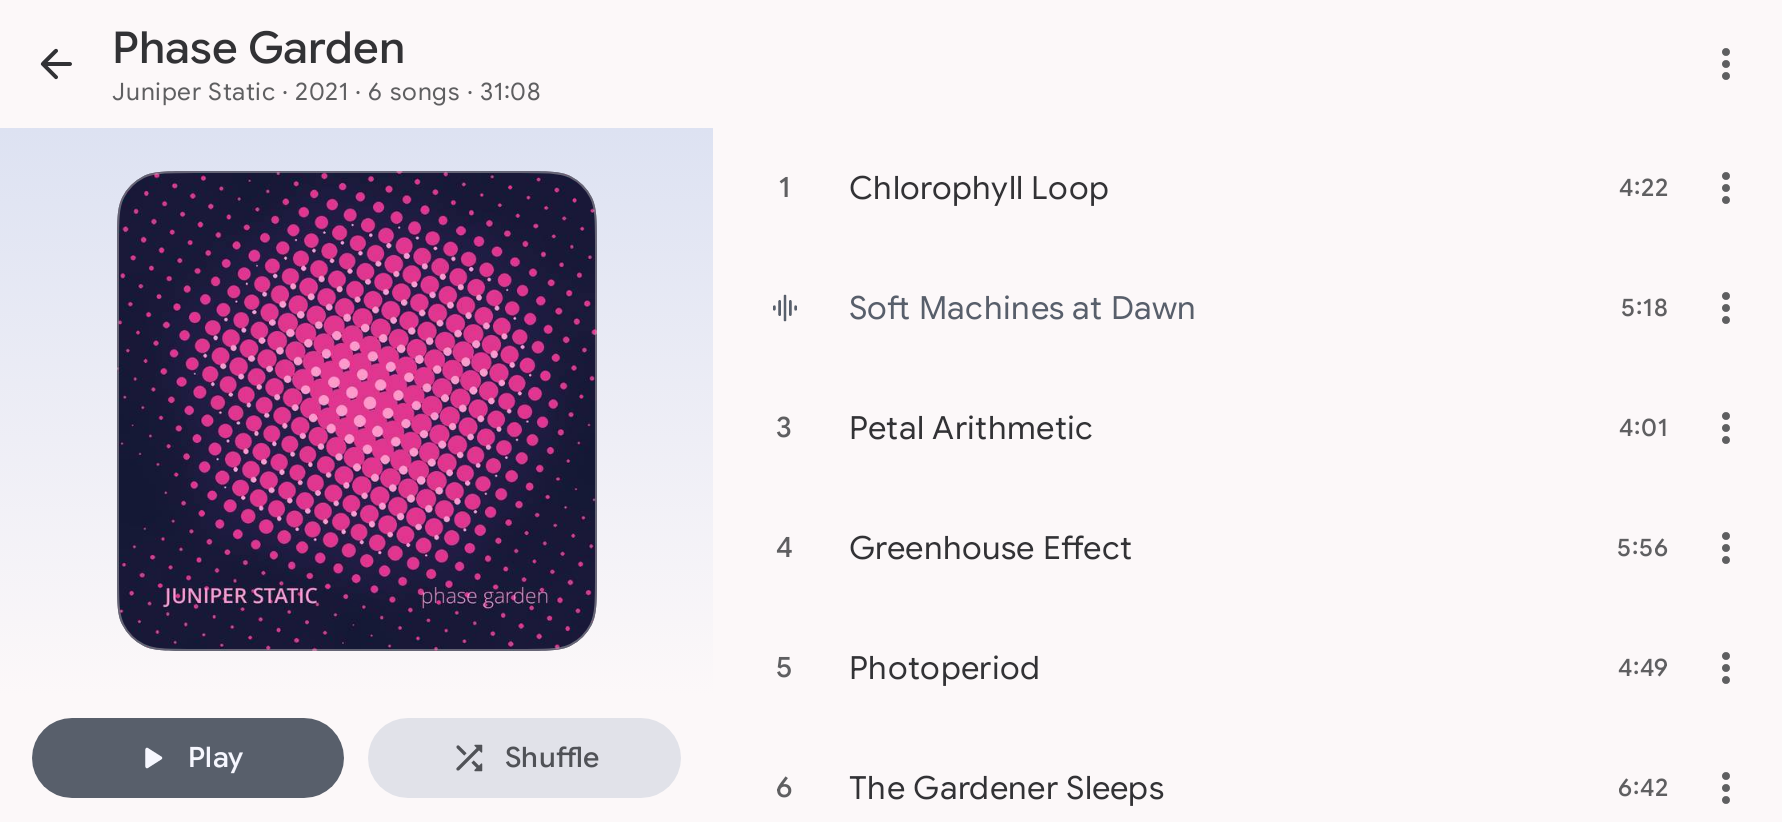
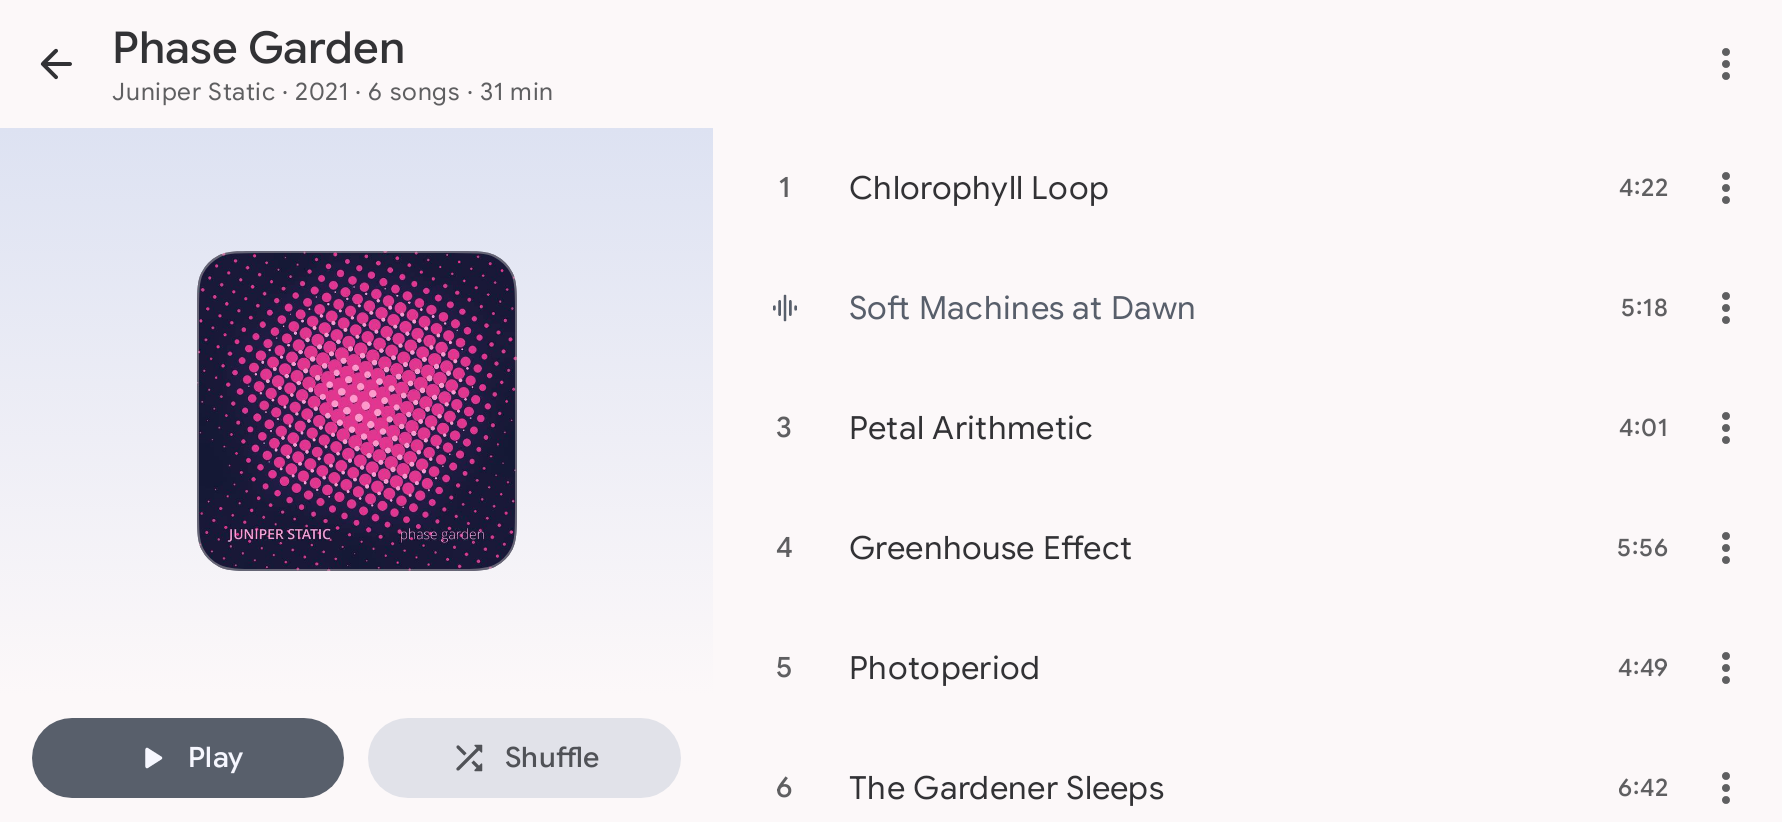
feat(app): compact album header and show runtime in hours and minutes (#1034)

Changed region(s): [[0.0617, 0.1825, 0.3395, 0.7908], [0.2778, 0.0912, 0.3086, 0.1217]]

diff --git a/android/app/src/main/java/com/simplecityapps/shuttle/ui/screens/library/AlbumDetailScreen.kt b/android/app/src/main/java/com/simplecityapps/shuttle/ui/screens/library/AlbumDetailScreen.kt
@@ -14,6 +14,7 @@ import androidx.lifecycle.compose.collectAsStateWithLifecycle
 import androidx.navigation3.runtime.NavKey
 import com.simplecityapps.shuttle.R
 import com.simplecityapps.shuttle.designsystem.component.ArtworkPlaceholder
+import com.simplecityapps.shuttle.designsystem.component.ArtworkSize
 import com.simplecityapps.shuttle.designsystem.component.S2Action
 import com.simplecityapps.shuttle.designsystem.component.SectionHeader
 import com.simplecityapps.shuttle.designsystem.component.SongRow
@@ -70,6 +71,7 @@ fun AlbumDetailScreen(
             subtitle = album?.let { albumSubtitle(it) },
             artwork = album,
             placeholder = ArtworkPlaceholder.Album,
+            artworkSize = ArtworkSize.Grid,
             artworkKey = album?.let { albumArtworkKey(it.route) },
             onNavigateUp = onNavigateUp,
             onPlay = { onPlay(songs, 0) },
@@ -130,8 +132,20 @@ private fun albumSubtitle(album: Album): String = listOfNotNull(
     album.friendlyArtistName,
     album.year?.toString(),
     pluralString(R.plurals.songsPlural, album.songCount),
-    formatDuration(album.duration.toLong()),
+    albumRuntime(album.duration.toLong()),
 ).filter { it.isNotBlank() }.joinToString(" · ")
+
+/** "45 min", or "1 h 5 min" from an hour up; empty for none. Whole minutes, rounded down. */
+@Composable
+internal fun albumRuntime(ms: Long): String {
+    val totalMinutes = (ms / 60_000).toInt()
+    val resources = LocalResources.current
+    return when {
+        totalMinutes <= 0 -> ""
+        totalMinutes < 60 -> resources.getString(R.string.runtime_minutes, totalMinutes)
+        else -> resources.getString(R.string.runtime_hours_minutes, totalMinutes / 60, totalMinutes % 60)
+    }
+}
 
 @Composable
 fun AlbumDetailDestination(

diff --git a/android/app/src/main/java/com/simplecityapps/shuttle/ui/screens/library/LibraryDetailComponents.kt b/android/app/src/main/java/com/simplecityapps/shuttle/ui/screens/library/LibraryDetailComponents.kt
@@ -69,6 +69,7 @@ fun LibraryDetailScaffold(
     onMore: () -> Unit,
     modifier: Modifier = Modifier,
     bleed: Boolean = false,
+    artworkSize: ArtworkSize = ArtworkSize.Hero,
     artworkKey: String? = null,
     heroArtwork: (@Composable (Modifier) -> Unit)? = null,
     listState: LazyListState = rememberLazyListState(),
@@ -109,7 +110,7 @@ fun LibraryDetailScaffold(
                         topInset = topInset,
                         artwork = {
                             val sharedModifier = Modifier.sharedArtwork(artworkKey)
-                            if (heroArtwork != null) heroArtwork(sharedModifier) else LibraryArtwork(model = artwork, placeholder = placeholder, modifier = sharedModifier, size = ArtworkSize.Hero)
+                            if (heroArtwork != null) heroArtwork(sharedModifier) else LibraryArtwork(model = artwork, placeholder = placeholder, modifier = sharedModifier, size = artworkSize)
                         },
                         actions = playShuffle,
                         extra = header,

diff --git a/android/app/src/test/java/com/simplecityapps/shuttle/ui/screens/library/AlbumDetailScreenTest.kt b/android/app/src/test/java/com/simplecityapps/shuttle/ui/screens/library/AlbumDetailScreenTest.kt
@@ -28,6 +28,22 @@ class AlbumDetailScreenTest {
     }
 
     @Test
+    fun `the header gives the song count and a runtime under an hour in minutes`() {
+        val album = createAlbum(name = "Phase Garden", albumArtist = "Juniper Static", songCount = 12, duration = 2_700_000, year = 2021)
+        robot.setAlbum(readyAlbumDetail(album = album))
+
+        robot.assertTextDisplayed("12 songs · 45 min", substring = true)
+    }
+
+    @Test
+    fun `the runtime of an hour or more shows hours and minutes`() {
+        val album = createAlbum(name = "Phase Garden", albumArtist = "Juniper Static", songCount = 1, duration = 7_500_000, year = 2021)
+        robot.setAlbum(readyAlbumDetail(album = album))
+
+        robot.assertTextDisplayed("1 song · 2 h 5 min", substring = true)
+    }
+
+    @Test
     fun `Play starts the album from the top and a song plays from its position`() {
         val songs = phaseGardenSongs()
         robot.setAlbum(readyAlbumDetail(songs = songs))
